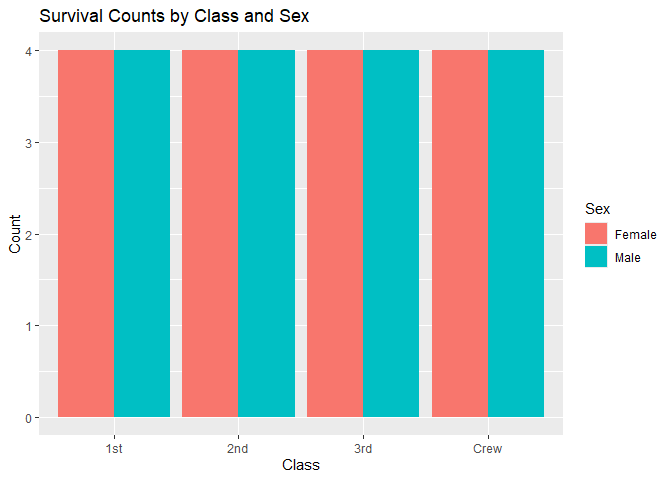
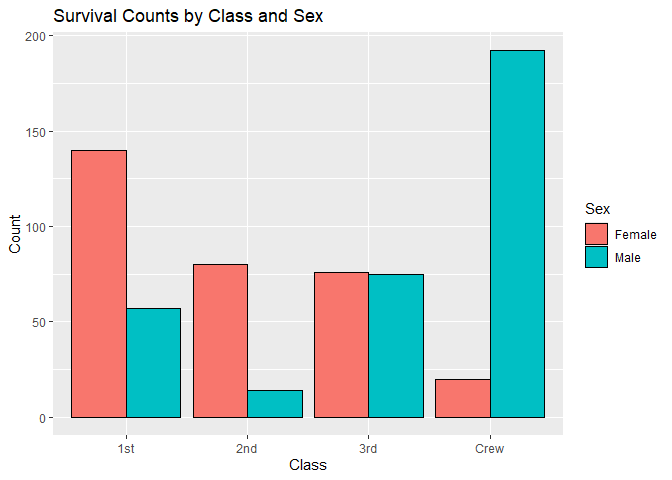
resubmission titanic assignment

diff --git a/challenges/c01-titanic-assignment.md b/challenges/c01-titanic-assignment.md
@@ -135,10 +135,14 @@ df_titanic %>% summarize(total = sum(n))
 - Write your observations here
 - Are there any differences?
   - On the Wikipedia, it says that there are 2,224 total passengers and
-    crews who died versus the datasets’ 2201.
+    crews who died versus the datasets’ 2,201.
 - If yes, what might account for those differences?
-  - It is just a tiny bit off because of the specific dataset’s focus or
-    differences in data completeness.
+  - Due to the fact that Wikipedia can always update and fix information
+    (if we have found new crew members/passengers) in the years after
+    the data set was originally uploaded, it could have a higher number
+    than the our data that we have access to now. This is due to the
+    data set being a fixed number of people and cannot keep up with
+    current news.
 
 ### **q3** Create a plot showing the count of persons who *did* survive, along with aesthetics for `Class` and `Sex`. Document your observations below.
 
@@ -146,9 +150,11 @@ df_titanic %>% summarize(total = sum(n))
 
 ``` r
 ## TASK: Visualize counts against `Class` and `Sex`
+df_titanic %>% 
+  filter(Survived == "Yes") %>% 
 
-ggplot(df_titanic, aes(x = Class, fill = Sex)) +
-  geom_bar(position = "dodge") +
+ggplot(aes(x = Class, y=n, fill = Sex)) +
+  geom_col(position = "dodge", color = "black") +
   labs(title = "Survival Counts by Class and Sex",
        x = "Class",
        y = "Count",
@@ -159,7 +165,9 @@ ggplot(df_titanic, aes(x = Class, fill = Sex)) +
 
 **Observations**:
 
-- All of the survival counts are the same for genders.
+- I’m suprised that there are so many crew male survivors. I wonder why
+  that might be? However, it makes sense that first class women is very
+  high.
 
 # Deeper Look
 
@@ -206,28 +214,32 @@ df_prop
 ### **q4** Replicate your visual from q3, but display `Prop` in place of `n`. Document your observations, and note any new/different observations you make in comparison with q3. Is there anything *fishy* in your plot?
 
 ``` r
-ggplot(df_prop, aes(x = Class, y = Prop, fill = Sex)) +
-  geom_bar(stat = "identity", position = "dodge") +
-  labs(title = "Survival Proportions by Class and Sex",
+df_prop %>% 
+  filter(Survived == "Yes") %>% 
+
+ggplot(aes(x = Class, y=Prop, fill = Sex)) +
+  geom_col(position = "dodge", color = "black") +
+  labs(title = "Survival Counts by Class and Sex",
        x = "Class",
-       y = "Proportion",
+       y = "Proportions",
        fill = "Sex")
 ```
 
-    ## Warning: Removed 4 rows containing missing values or values outside the scale range
-    ## (`geom_bar()`).
+    ## Warning: Removed 2 rows containing missing values or values outside the scale range
+    ## (`geom_col()`).
 
 ![](c01-titanic-assignment_files/figure-gfm/q4-task-1.png)<!-- -->
 
 **Observations**:
 
-- The third class and crew are uneven, as opposed. The y axis has also
-  changed. There are also higher survival rates for higher class
-  individuals.
+- It seems weird that there is a high amount of crew male population who
+  survive in the graph from q3, but then the proportion here is the
+  smallest. Would that mean there were just an insane amount of crew
+  male population on board?
 - Is there anything *fishy* going on in your plot?
-  - I don’t know why the proportions don’t add up for third class and
-    crew however. There is also an unexpected high survivial proprtion
-    for males especially in 3rd class and among the crew.
+  - It is interesting that 100% of the individuals in first and second
+    class survive; it feels wrong that the Titanic was such a big
+    travesty if so many of the percentages survived.
 
 ### **q5** Create a plot showing the group-proportion of occupants who *did* survive, along with aesthetics for `Class`, `Sex`, *and* `Age`. Document your observations below.
 
@@ -235,28 +247,34 @@ ggplot(df_prop, aes(x = Class, y = Prop, fill = Sex)) +
 additional variables!
 
 ``` r
-ggplot(df_prop, aes(x = Class, y = Prop, fill = Sex)) +
-  geom_bar(stat = "identity", position = "dodge") +
+df_prop %>% 
+  filter(Survived == "Yes") %>% 
+
+ggplot(aes(x = Class, y=Prop, fill = Sex)) +
+  geom_col(position = "dodge", color = "black") +
   facet_grid(~ Age) +
-  labs(title = "Survival Proportions by Class, Sex, and Age",
+  labs(title = "Survival Counts by Class and Sex",
        x = "Class",
-       y = "Proportion",
+       y = "Proportions",
        fill = "Sex")
 ```
 
-    ## Warning: Removed 4 rows containing missing values or values outside the scale range
-    ## (`geom_bar()`).
+    ## Warning: Removed 2 rows containing missing values or values outside the scale range
+    ## (`geom_col()`).
 
 ![](c01-titanic-assignment_files/figure-gfm/q5-task-1.png)<!-- -->
 
 **Observations**:
 
-- This one is also separated by adults and children.
+- According to our data set, it shows that all of the children in first
+  and second class survived.
 - If you saw something *fishy* in q4 above, use your new plot to explain
   the fishy-ness.
   - In the earlier plot, when adults and children were grouped together,
-    the high survival rates for male children inflated the overall
-    survival rates for males in third class and the crew.
+    the high survival rates for male children made the overall survival
+    rates for males in first and second class look larger. It also
+    clarified that there are no children in crew and that is proven by
+    how there are no children on the crew Child graph.
 
 # Notes
 
